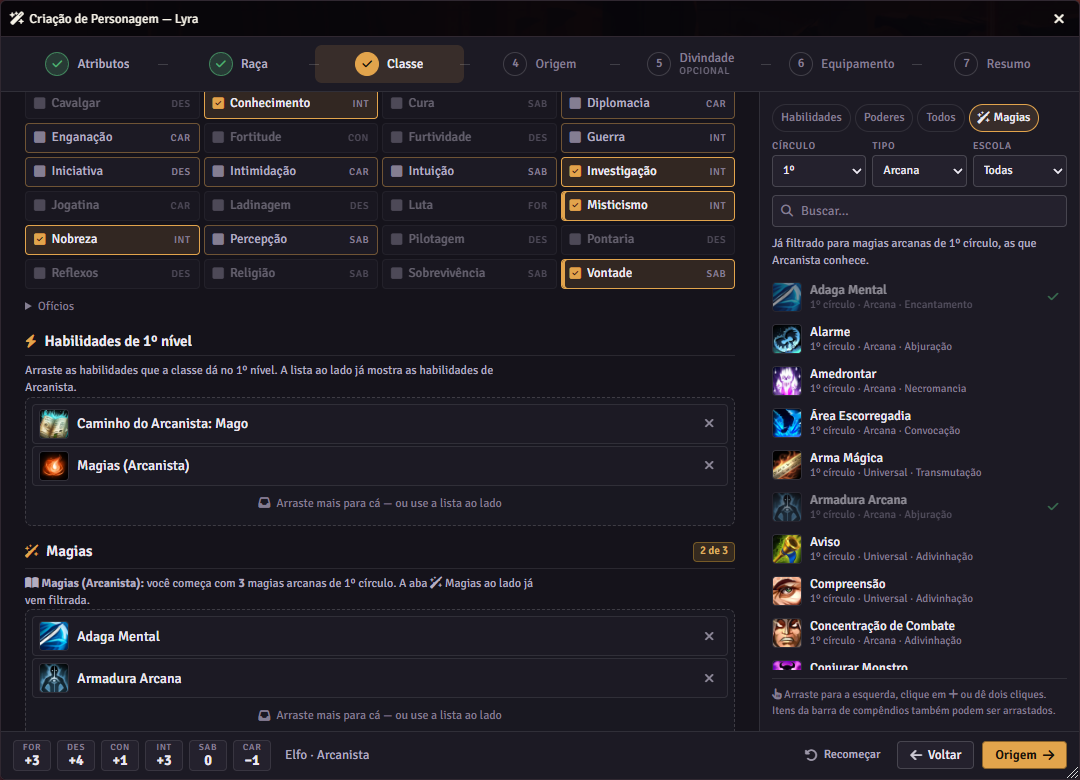
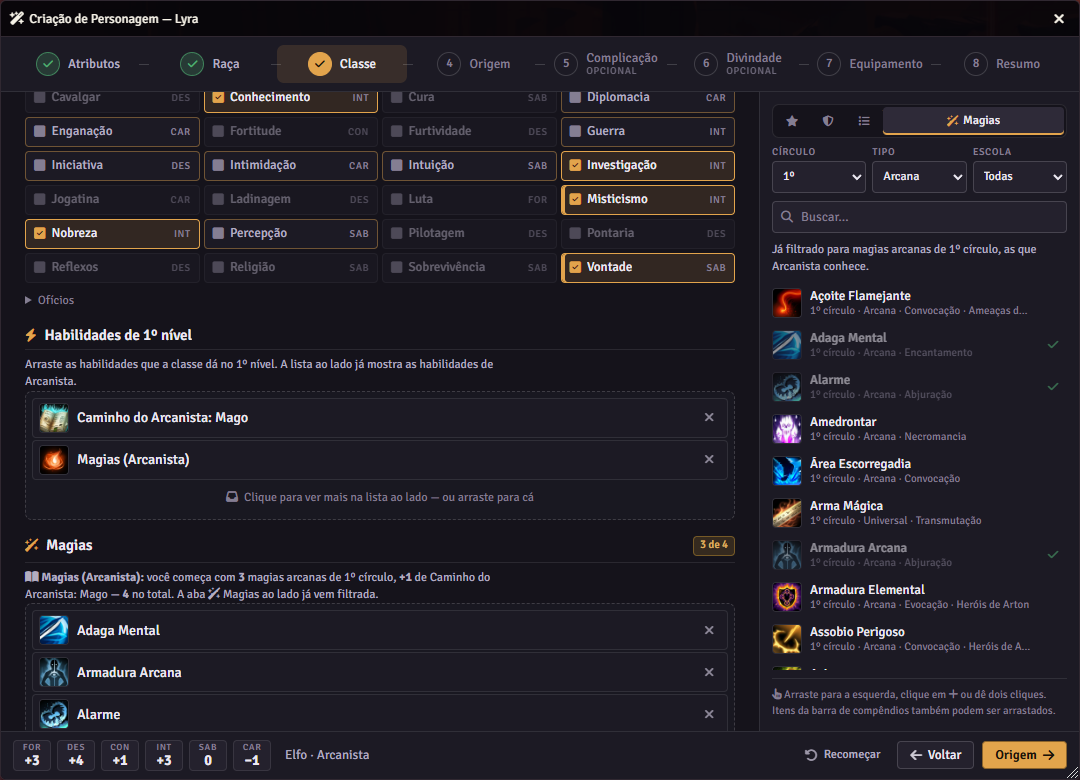
fix(criacao): magias iniciais somam o que o caminho dá
O Caminho do Arcanista: Mago "começa com uma magia adicional (para um
total de 4)", mas a contagem da etapa Classe ficava nas 3 da habilidade
Magias. Agora as habilidades escolhidas na classe que dizem "magia(s)
adicional(is)" somam à base, no contador, no texto e na pendência do
Resumo. Print do README refeito com o Mago (3 de 4).

diff --git a/README.md b/README.md
@@ -192,13 +192,13 @@ Ao criar um Personagem de Jogador, abre uma janela que conduz pelas etapas do Li
 - **Raça e classe** são escolhidas em cartões com os modificadores e os PV/PM por nível. Os atributos à escolha da raça (o +1 em três atributos do humano, por exemplo) são marcados ali mesmo, e os poderes que a raça concede já entram prontos. Com a variante **Raças Abertas** ligada no mundo, cada modificador da raça (o +2, +1 e −1 do anão) é colocado no atributo que o jogador quiser, um por atributo. Na classe, um botão adiciona de uma vez todas as habilidades de 1º nível.
 - **Perícias** são marcadas em cada etapa. Na classe, o assistente lê o texto do livro: as perícias fixas entram marcadas, as do "ou" pedem uma escolha, as opções da classe ficam destacadas, e a contagem mostra quantas faltam — já somando as perícias da Inteligência. Uma perícia ganha em outra etapa aparece travada.
 - **Poderes, magias e itens** podem ser arrastados de qualquer lugar (barra de compêndios, aba Itens, a própria lista do assistente) para a etapa certa. Ao lado, cada etapa sugere o que cabe ali: os poderes da raça, os poderes gerais por categoria (Destino, Combate, Tormenta, Magia, Grupo, Geral), as habilidades de 1º nível da classe, os poderes de classe (com a classe escolhível, para classes variantes), o poder da origem escolhida, os concedidos da divindade. A aba **Todos** tem filtro por tipo e subtipo, e a lista carrega de 30 em 30 conforme rola. Passar o mouse mostra a descrição.
-- **Magias** entram na raça, na classe, na origem ou na divindade — onde forem ganhas. Na classe, o assistente diz quantas ela conhece no 1º nível e já filtra as do círculo e tipo certos.
+- **Magias** entram na raça, na classe, na origem ou na divindade — onde forem ganhas. Na classe, o assistente diz quantas ela conhece no 1º nível (somando o que uma habilidade escolhida dá, como a magia a mais do Caminho do Arcanista: Mago) e já filtra as do círculo e tipo certos.
 - **Complicação** (regra opcional do Heróis de Arton): um poder de complicação e, em troca, um poder geral à escolha, com as mesmas categorias de poderes gerais da raça.
 - **Origem e divindade** são texto livre, com sugestões das origens dos livros e dos vinte deuses do Panteão. Os concedidos aparecem tanto pelo domínio ("Guerra") quanto pelo nome do deus ("Arsenal"), como os suplementos escrevem, e os deuses menores dos suplementos ("Neruíte, a Deusa do Sono") ficam na aba **Outras divindades**.
 - **Equipamento:** o jogador marca as proficiências (que vão para a ficha) e escolhe o equipamento inicial do livro — o kit de viagem, uma arma simples, uma marcial se tiver proficiência, a armadura (ou brunea; arcanistas começam sem) e o escudo leve. Esses entram como **recebidos**. Com **Posso comprar** ligado, o resto sai do dinheiro inicial (T$ 4d6 por padrão): a conta aparece na hora e, se passar do dinheiro, fica vermelha e a criação não é concluída.
 - O que foi montado fica salvo no ator: fechar a janela não perde nada, e Mestre e jogador podem preencher juntos. Enquanto a ficha não tem raça nem classe, o cabeçalho mostra o botão **Criar personagem**.
 
-![Assistente de Criação na etapa Classe: Arcanista com as perícias da classe marcadas, as habilidades de 1º nível e duas de três magias escolhidas; à direita, a aba Magias já filtrada para magias arcanas de 1º círculo](docs/assistente-de-criacao.png)
+![Assistente de Criação na etapa Classe: Arcanista com as perícias da classe marcadas, o Caminho do Mago entre as habilidades de 1º nível e três de quatro magias escolhidas (o caminho soma uma às três da classe); à direita, a aba Magias já filtrada para magias arcanas de 1º círculo](docs/assistente-de-criacao.png)
 
 *Etapas no topo, a escolha no meio e, à direita, o que cabe na etapa — pronto para arrastar.*
 
